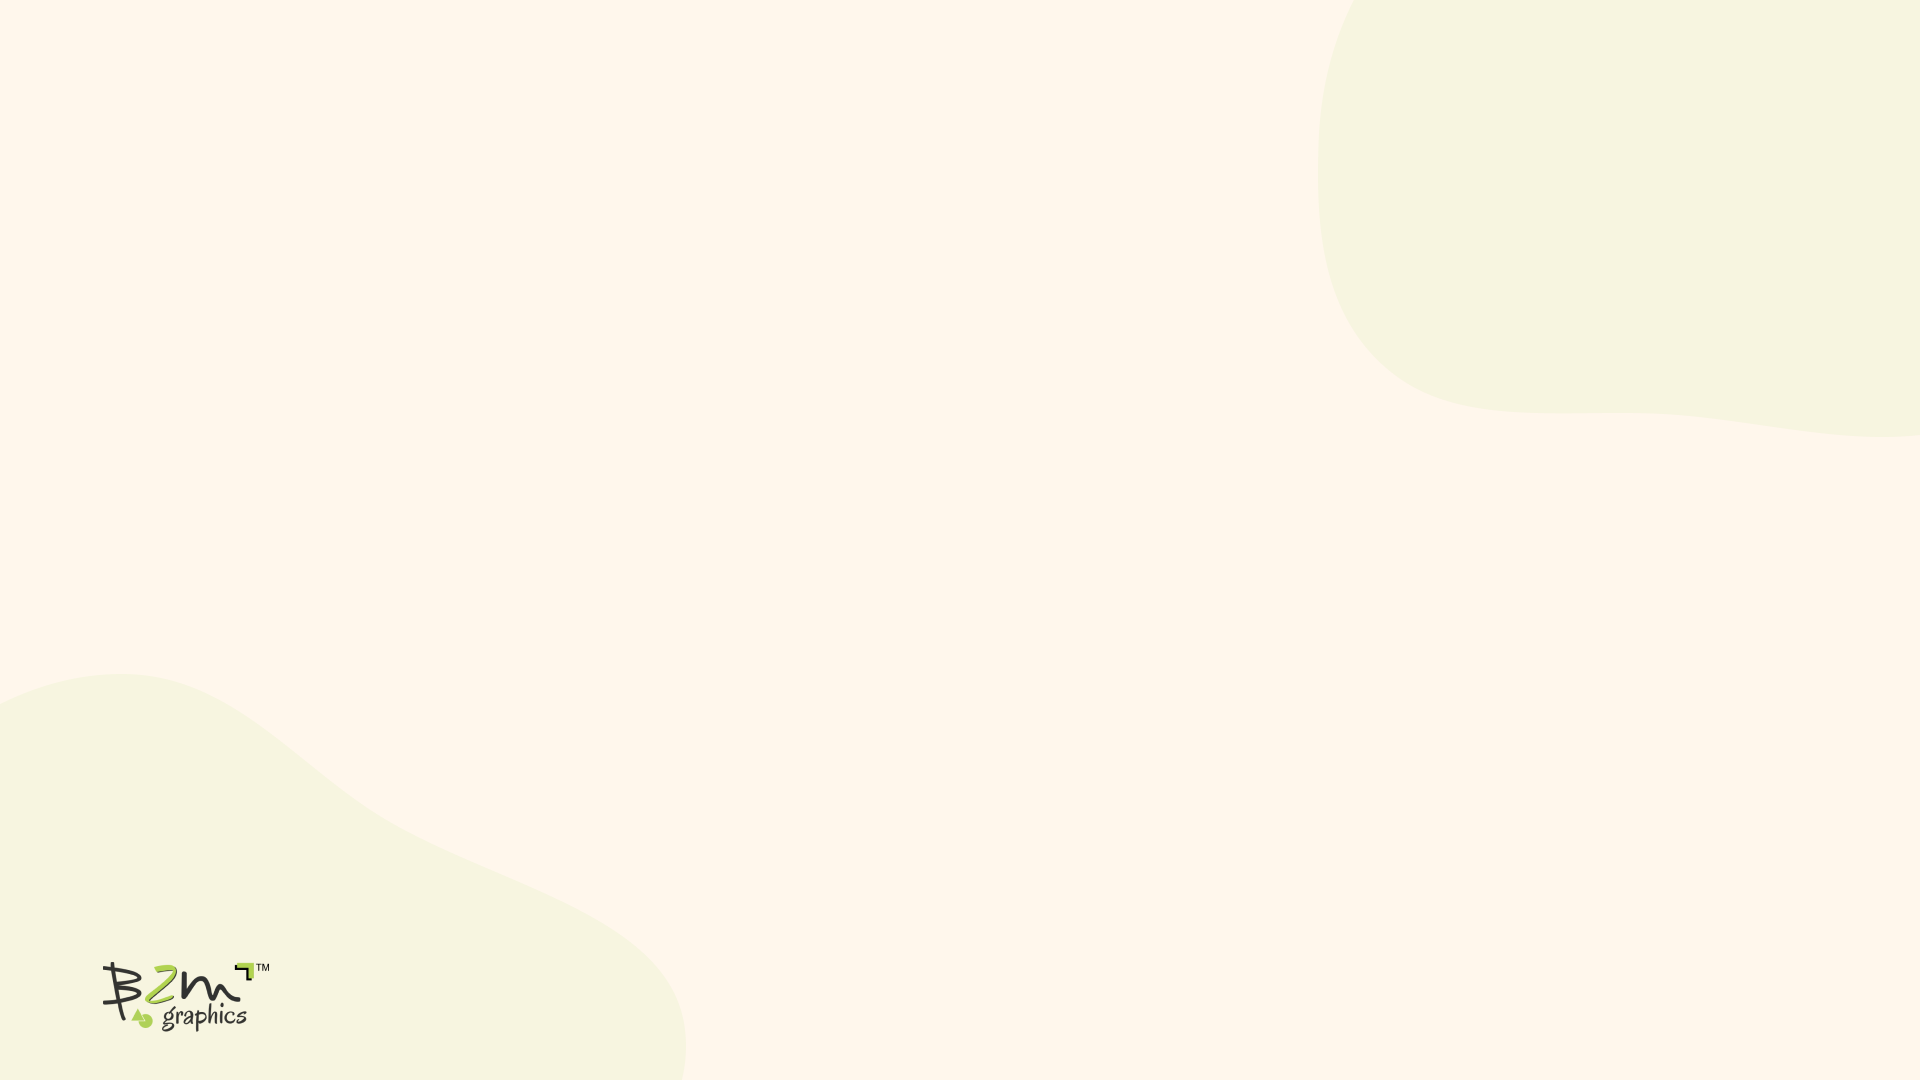
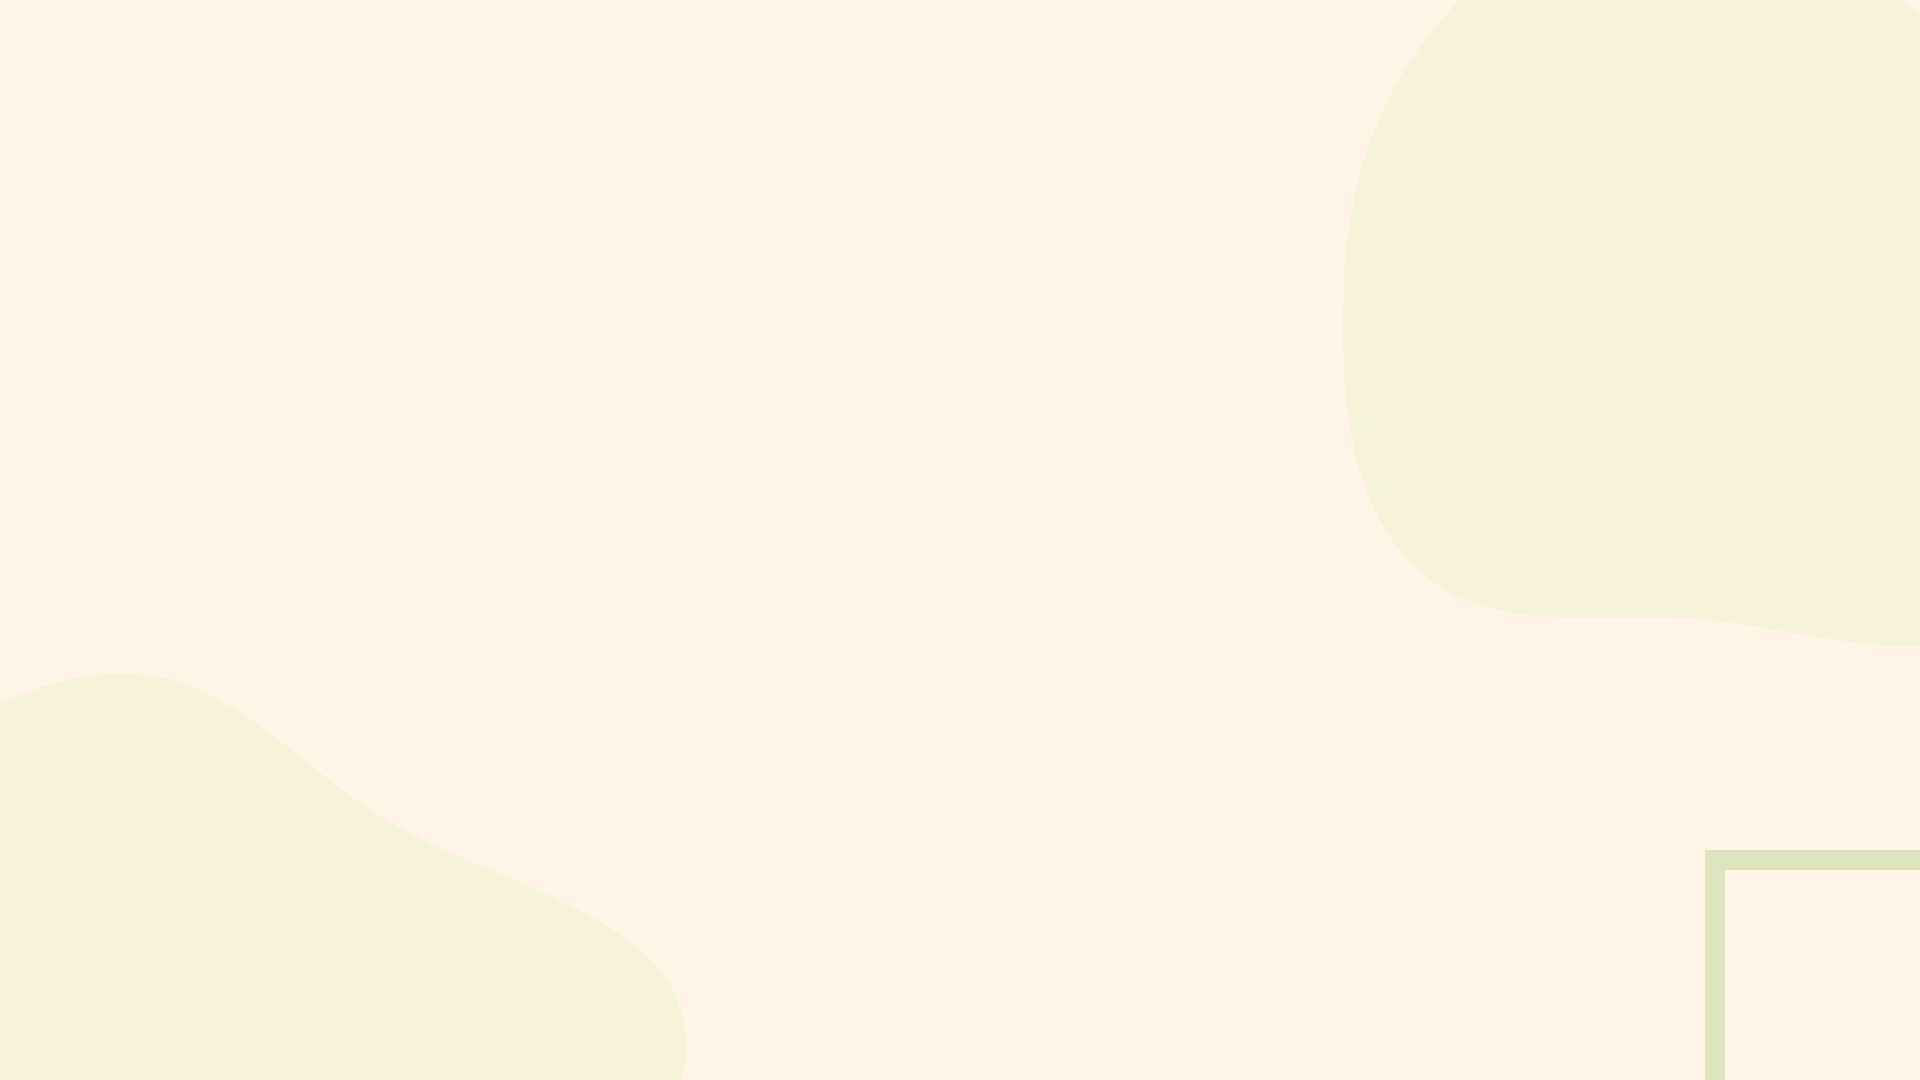
on progress.

Changed region(s): [[0.875, 0.7639, 1.0, 1.0], [0.0312, 0.8861, 0.1562, 0.9472]]

diff --git a/index.html b/index.html
@@ -228,7 +228,6 @@
       <div
         class="relative mx-auto flex max-h-[1080px] max-w-screen-2xl flex-col-reverse items-center justify-between space-y-5 p-4 lg:h-screen lg:flex-row lg:gap-20 lg:p-10"
       >
-        <!-- bottom bzm logo -->
         <div class="absolute bottom-4 left-[3%] z-20 lg:bottom-[5%]">
           <img
             class="h-8 object-contain lg:h-16 2xl:h-20"
@@ -236,7 +235,6 @@
           />
         </div>
 
-        <!-- price -->
         <div
           class="right-10 top-10 z-20 flex justify-center lg:absolute lg:justify-end"
         >
@@ -279,6 +277,32 @@
               nemo ut deserunt quis optio quos.
             </li>
           </ul>
+        </div>
+      </div>
+    </section>
+
+    <section
+      class="bg-[#F4F4F4] bg-cover lg:bg-[url('./assets/bg-image-3.png')]"
+    >
+      <div
+        class="relative mx-auto flex max-h-[1080px] max-w-screen-2xl flex-col-reverse items-center justify-between space-y-5 p-4 lg:h-screen lg:flex-row lg:gap-20 lg:p-10"
+      >
+        <div class="flex-1">
+          <img
+            src="./assets/hero-image-1.png"
+            class="h-full w-full object-contain"
+            alt="example"
+            draggable="false"
+          />
+        </div>
+
+        <div class="flex flex-1 flex-col items-end space-y-5">
+          <h2
+            class="whitespace-nowrap text-center text-4xl font-medium !leading-tight lg:text-start lg:text-7xl 2xl:text-8xl"
+          >
+            <span>Service</span> <span class="text-[#92c46a]">Portfolio</span>
+          </h2>
+          <p class="text-2xl lg:text-5xl">Before & After</p>
         </div>
       </div>
     </section>
